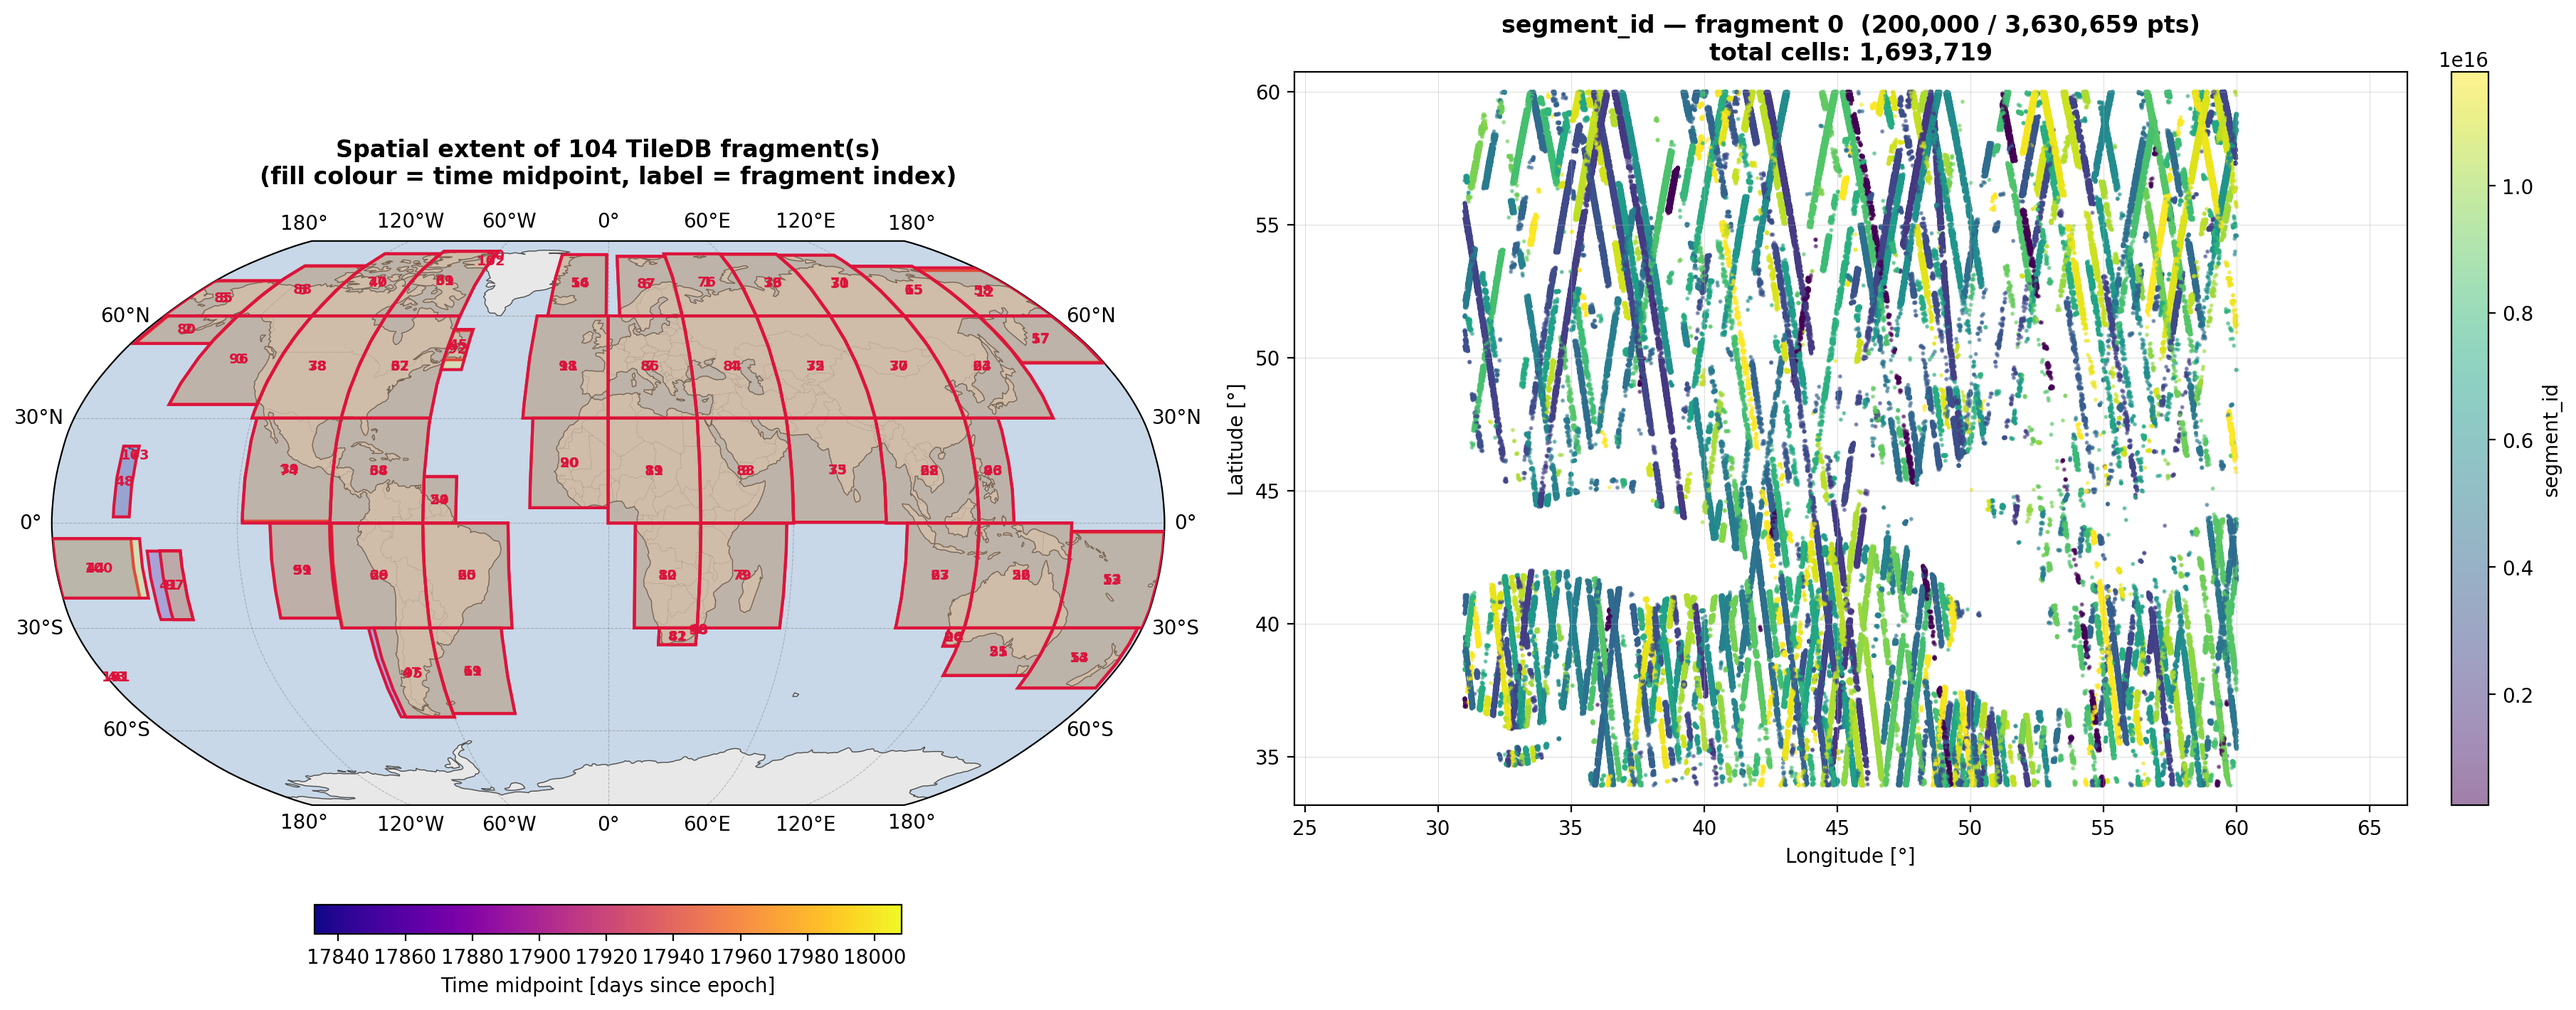
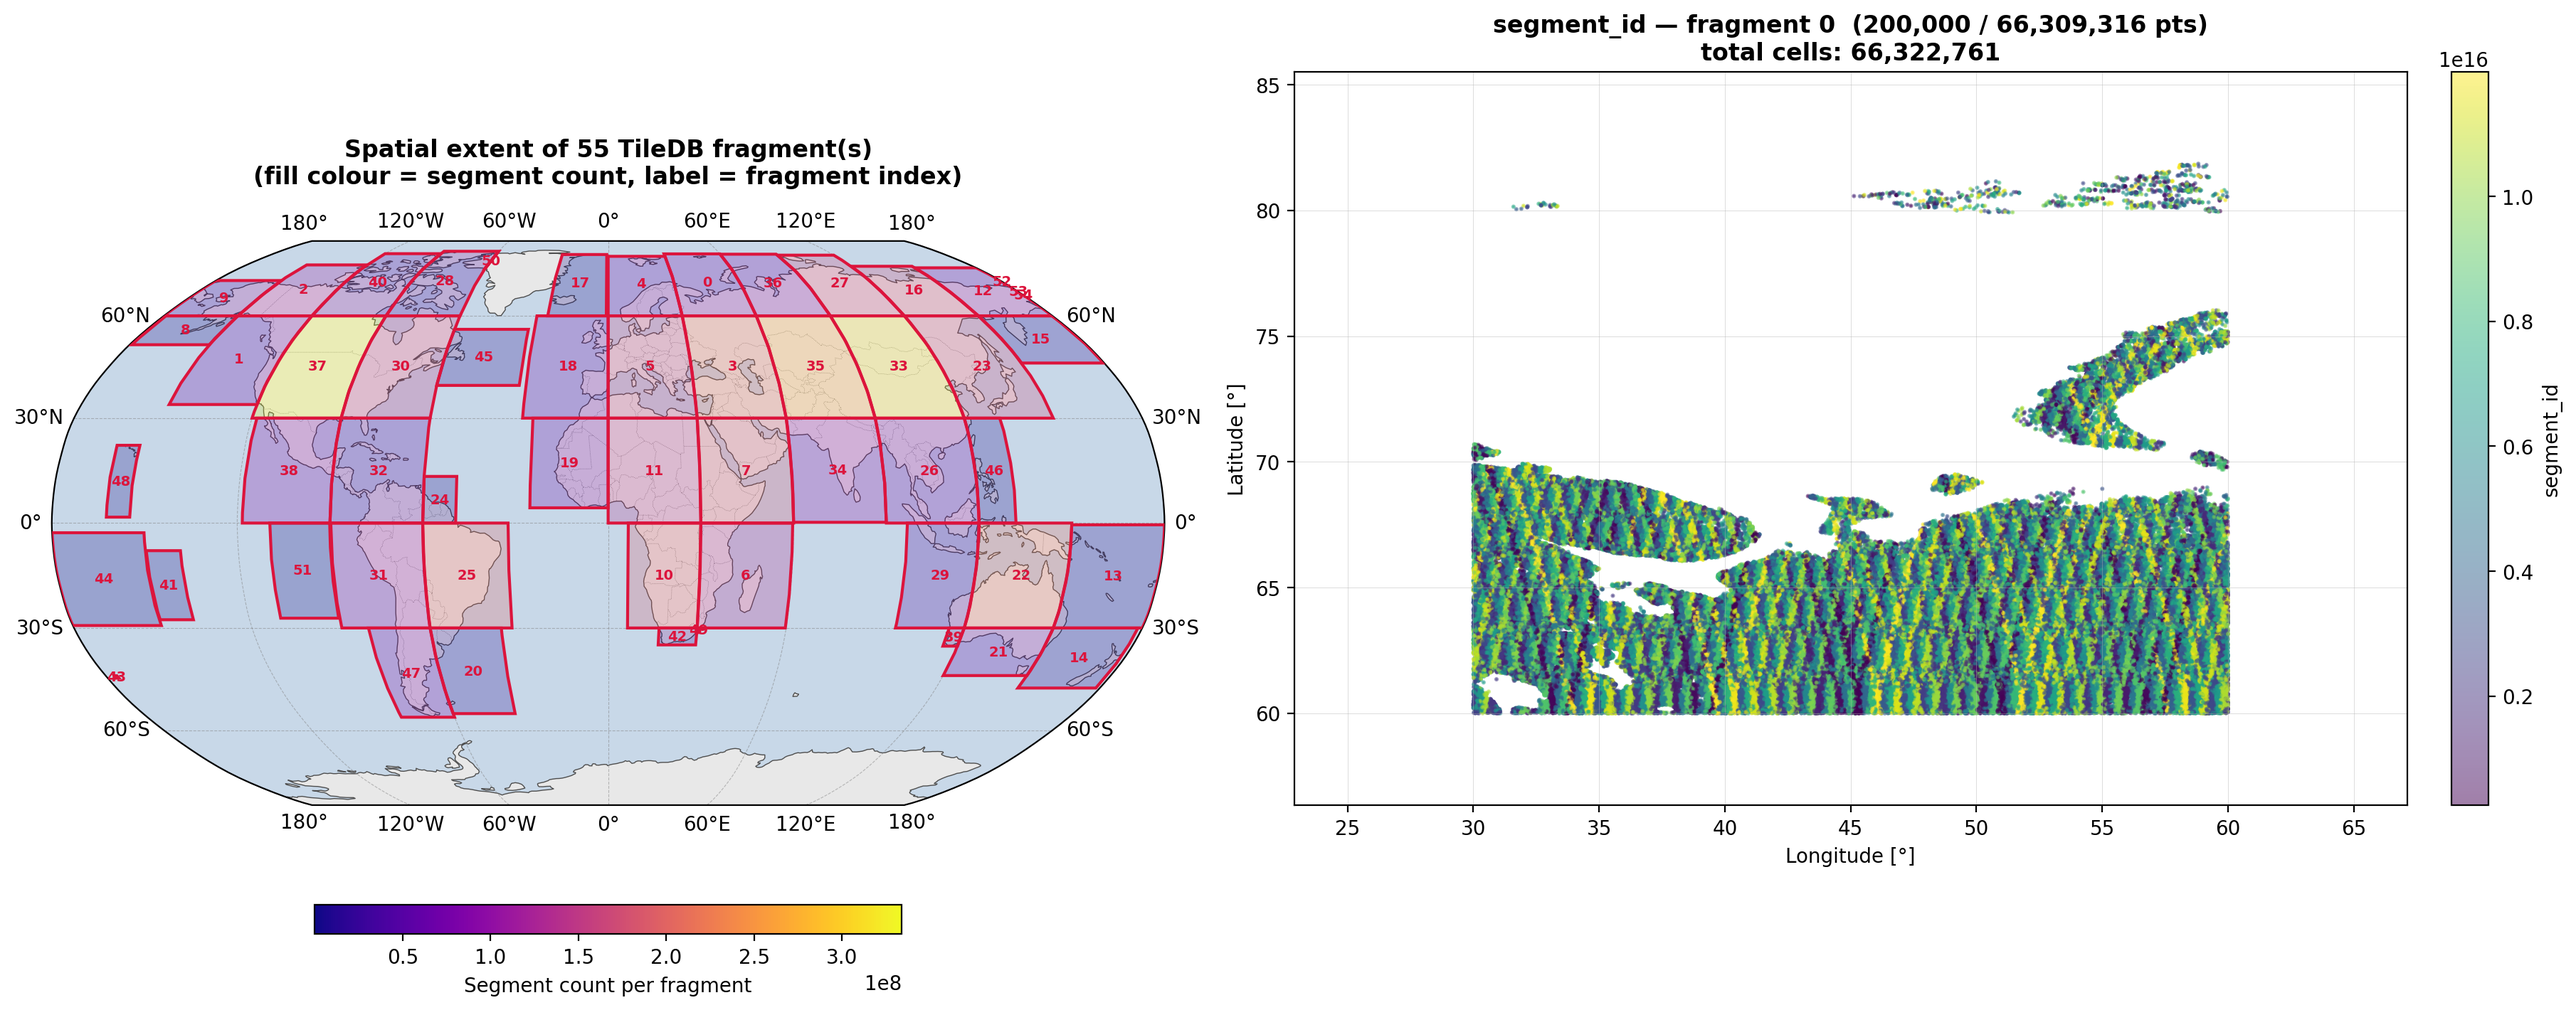
optimise provider speed

diff --git a/icesat2db/core/icesat2provider.py b/icesat2db/core/icesat2provider.py
@@ -31,6 +31,9 @@ logger = logging.getLogger(__name__)
 
 DEFAULT_DIMS = ["segment_id"]
 
+# Precompiled once — matches profile/subsegment expanded column names like h_canopy_20m_1
+_INDEX_SUFFIX_RE = re.compile(r"^(.+)_(\d+)$")
+
 
 class IceSat2Provider(TileDBProvider):
     """
@@ -231,28 +234,25 @@ class IceSat2Provider(TileDBProvider):
         start_time = _datetime_to_timestamp_days(start_time) if start_time else None
         end_time = _datetime_to_timestamp_days(end_time) if end_time else None
 
+        # Resolve to a single shapely geometry once — reused for both the area
+        # check and the polygon filter inside _query_array/_filter_by_polygon.
+        geom = geometry.union_all() if len(geometry) > 1 else geometry.geometry.iloc[0]
+
         # Auto-detect polygon filtering need
         if use_polygon_filter == "auto":
-
-            # Check if geometry is complex (not just a rectangle)
-            geom = (
-                geometry.unary_union if len(geometry) > 1 else geometry.geometry.iloc[0]
-            )
             bbox_area = (lon_max - lon_min) * (lat_max - lat_min)
             geom_area = geom.area
-
-            # If geometry fills less than 80% of bbox, use polygon filter
             use_polygon_filter = (
                 (geom_area / bbox_area) < 0.9 if bbox_area > 0 else False
             )
-
             if use_polygon_filter:
                 logger.info(
                     f"Auto-enabled polygon filter (geometry covers "
                     f"{100 * geom_area / bbox_area:.1f}% of bounding box)"
                 )
 
-        # Query with optimized filtering
+        # Query with optimized filtering — pass the precomputed shapely geometry
+        # so _filter_by_polygon skips the union_all() call it would otherwise make.
         scalar_vars = variables + DEFAULT_DIMS
         scalar_data, profile_vars, subsegment_vars = self._query_array(
             scalar_vars,
@@ -262,7 +262,7 @@ class IceSat2Provider(TileDBProvider):
             lon_max,
             start_time,
             end_time,
-            geometry=geometry,
+            geometry=geom,
             use_polygon_filter=use_polygon_filter,
             **quality_filters,
         )
@@ -436,9 +436,10 @@ class IceSat2Provider(TileDBProvider):
           alignment between the two datasets.
 
         """
-        # Create DataFrame (optimized with from_dict)
-        scalar_data["time"] = _timestamp_to_datetime(scalar_data["time"])
-        scalar_df = pd.DataFrame.from_dict(scalar_data)
+        # Build DataFrame without mutating the caller's dict
+        scalar_df = pd.DataFrame.from_dict(
+            {**scalar_data, "time": _timestamp_to_datetime(scalar_data["time"])}
+        )
 
         # Reconstruct profile variables if present
         if profile_vars:
@@ -498,26 +499,18 @@ class IceSat2Provider(TileDBProvider):
         data_vars = {}
 
         # ── Scalar variables ──────────────────────────────────────────────────
+        # Use (dims, data) tuples to skip per-variable xr.DataArray construction.
         for var in scalar_var_names:
-            data_vars[var] = xr.DataArray(
-                scalar_data[var],
-                coords={"segment_id": scalar_data["segment_id"]},
-                dims=["segment_id"],
-            )
+            data_vars[var] = (["segment_id"], scalar_data[var])
 
         # ── Profile variables  (dim: profile_point) ───────────────────────────
         for base_var, components in profile_vars.items():
             profile_data = np.stack(
                 [scalar_data[comp] for comp in components], axis=-1
             ).astype(np.float32, copy=False)
-
-            data_vars[base_var] = xr.DataArray(
+            data_vars[base_var] = (
+                ["segment_id", "profile_point"],
                 profile_data,
-                coords={
-                    "segment_id": scalar_data["segment_id"],
-                    "profile_point": np.arange(len(components), dtype=np.int16),
-                },
-                dims=["segment_id", "profile_point"],
             )
 
         # ── Sub-segment variables  (dim: subsegment_point) ────────────────────
@@ -525,14 +518,9 @@ class IceSat2Provider(TileDBProvider):
             subsegment_data = np.stack(
                 [scalar_data[comp] for comp in components], axis=-1
             ).astype(np.float32, copy=False)
-
-            data_vars[base_var] = xr.DataArray(
+            data_vars[base_var] = (
+                ["segment_id", "subsegment_point"],
                 subsegment_data,
-                coords={
-                    "segment_id": scalar_data["segment_id"],
-                    "subsegment_point": np.arange(len(components), dtype=np.int16),
-                },
-                dims=["segment_id", "subsegment_point"],
             )
 
         # ── Assemble dataset ──────────────────────────────────────────────────
@@ -593,7 +581,7 @@ class IceSat2Provider(TileDBProvider):
         for var in dataset.variables:
             var_metadata = metadata_dict.get(var)
             if var_metadata is None:
-                match = re.match(r"^(.+)_(\d+)$", var)
+                match = _INDEX_SUFFIX_RE.match(var)
                 if match:
                     base_meta = metadata_dict.get(match.group(1))
                     if base_meta:

diff --git a/icesat2db/providers/tiledb_provider.py b/icesat2db/providers/tiledb_provider.py
@@ -291,8 +291,13 @@ class TileDBProvider:
         lons = data["longitude"]
         lats = data["latitude"]
 
-        # Get the geometry (handle MultiPolygon or single Polygon)
-        geom = geometry.unary_union if len(geometry) > 1 else geometry.geometry.iloc[0]
+        # Resolve to a single shapely geometry (caller may pass a precomputed union)
+        if hasattr(geometry, "union_all"):
+            geom = (
+                geometry.union_all() if len(geometry) > 1 else geometry.geometry.iloc[0]
+            )
+        else:
+            geom = geometry  # already a shapely geometry
 
         # Vectorized point-in-polygon test (MUCH faster than iterating)
         mask = contains_xy(geom, lons, lats)
